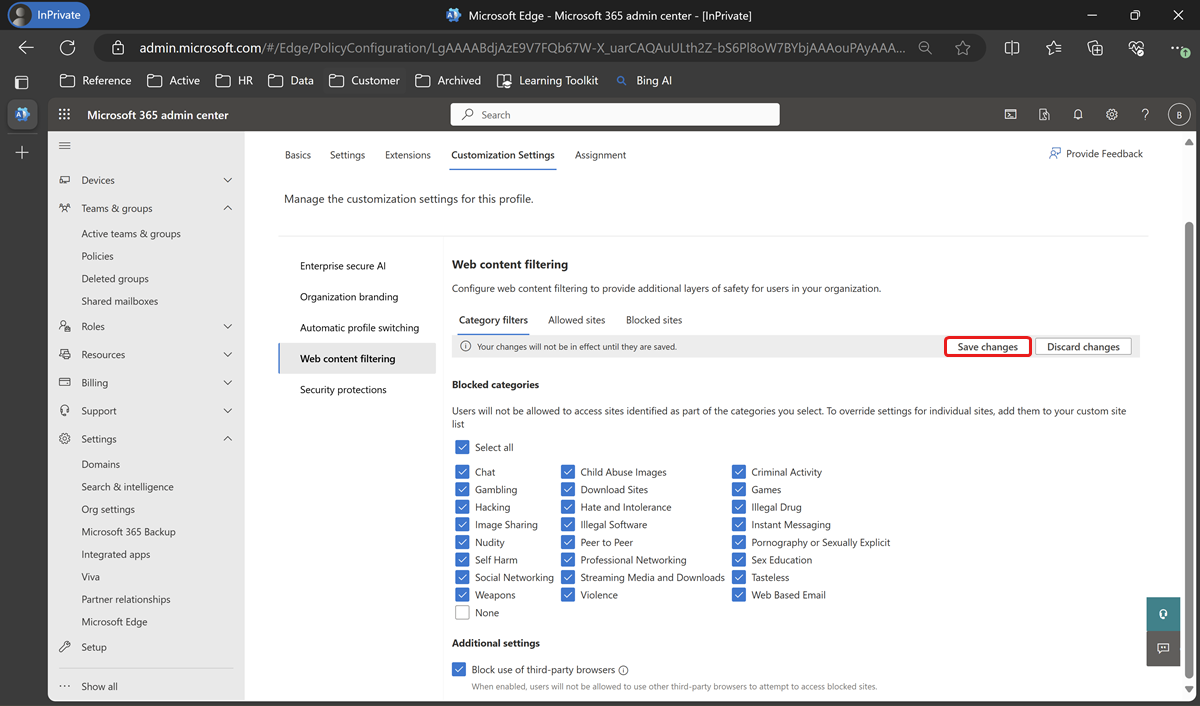
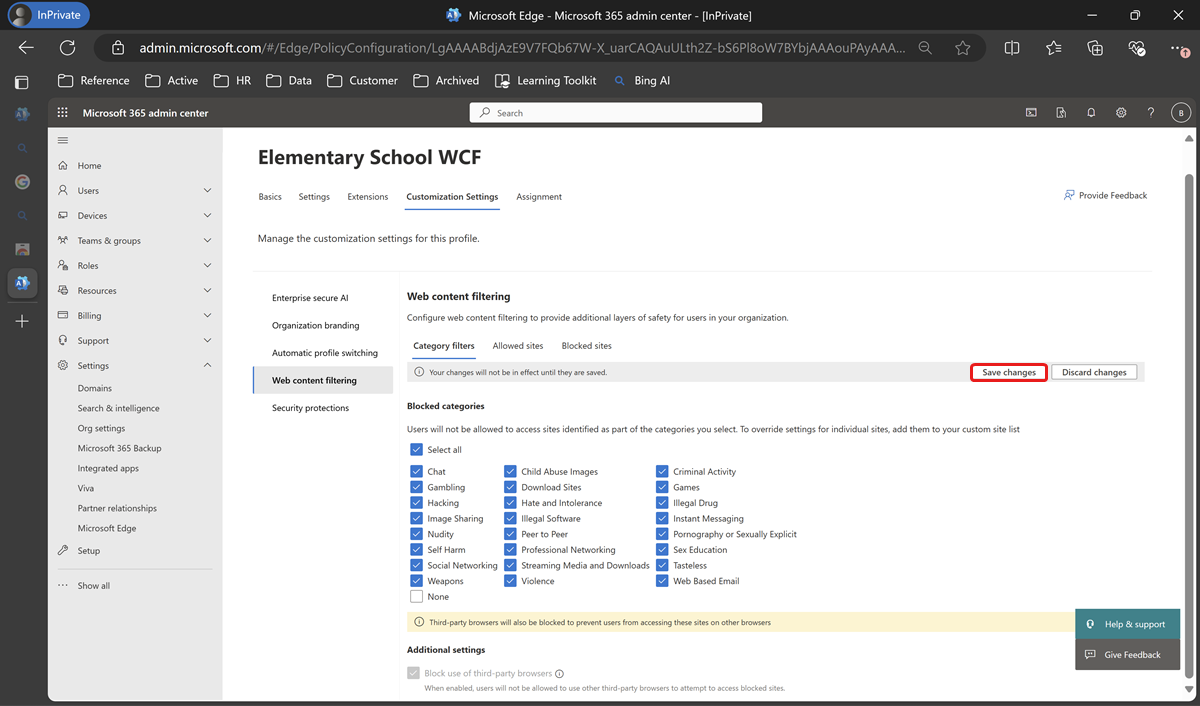
edit to wdf article, new screenshot, link to learnmore

diff --git a/edgeenterprise/microsoft-edge-web-content-filtering.md b/edgeenterprise/microsoft-edge-web-content-filtering.md
@@ -1,9 +1,9 @@
 ---
-title: "Configure Web Content Filtering on Edge using Edge management service"
+title: "Configure Web Content Filtering on Edge"
 ms.author: ssatti
 author: dan-wesley
 manager: vesesha
-ms.date: 06/21/2024
+ms.date: 07/09/2024
 audience: ITPro
 ms.topic: reference
 ms.service: microsoft-edge
@@ -13,13 +13,13 @@ ms.custom:
 description: "Configure Web Content Filtering on Edge using Edge management service "
 ---
 
-# Configure Web Content Filtering on Edge using Edge management service
+# Configure Web Content Filtering on Edge
 
 This article describes how to configure Web Content Filtering (WCF) for Microsoft Edge.
 
 ## Introduction
 
-Microsoft Edge is already one of the most secure browsers with features like phishing protection, typosquatting, and more to protect users when they're browsing online. Adding to these security features, Microsoft Edge is introducing Web Content Filtering (WCF) for Educational Institutions to help them keep students safe online. Using this feature, you can choose categories of websites that students aren't allowed to access while using Microsoft Edge.
+Microsoft Edge is already one of the most secure browsers with features like phishing protection, typosquatting, and more to protect users when they're browsing online. Adding to these security features, Microsoft Edge is introducing Web Content Filtering (WCF) for Educational Institutions to help them keep students safe online. Using this feature, you can choose [categories of websites](edge-learnmore-wcf-supported-categories.md) that students aren't allowed to access while using Microsoft Edge.
 
 To use this feature, set it up via the Microsoft Edge management service using the following the steps.
 
